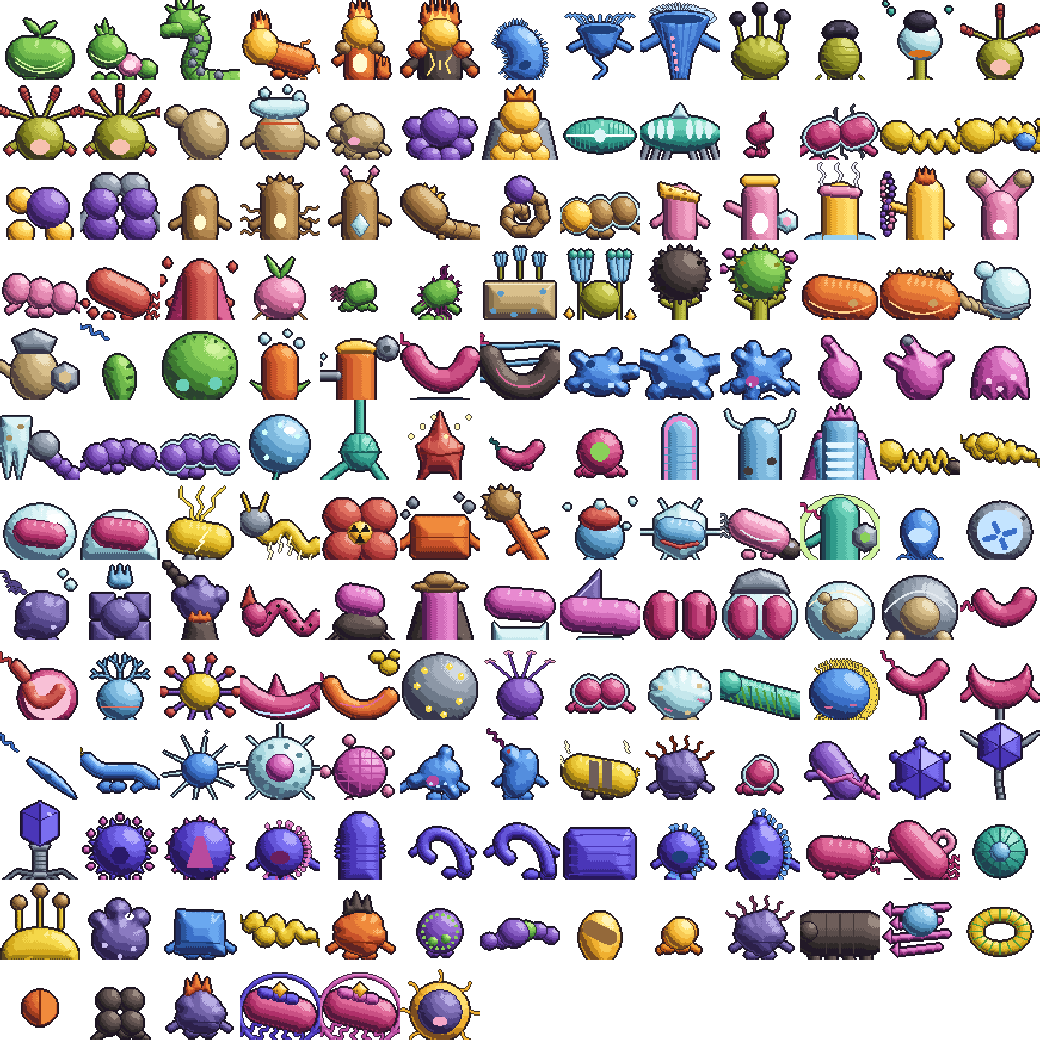
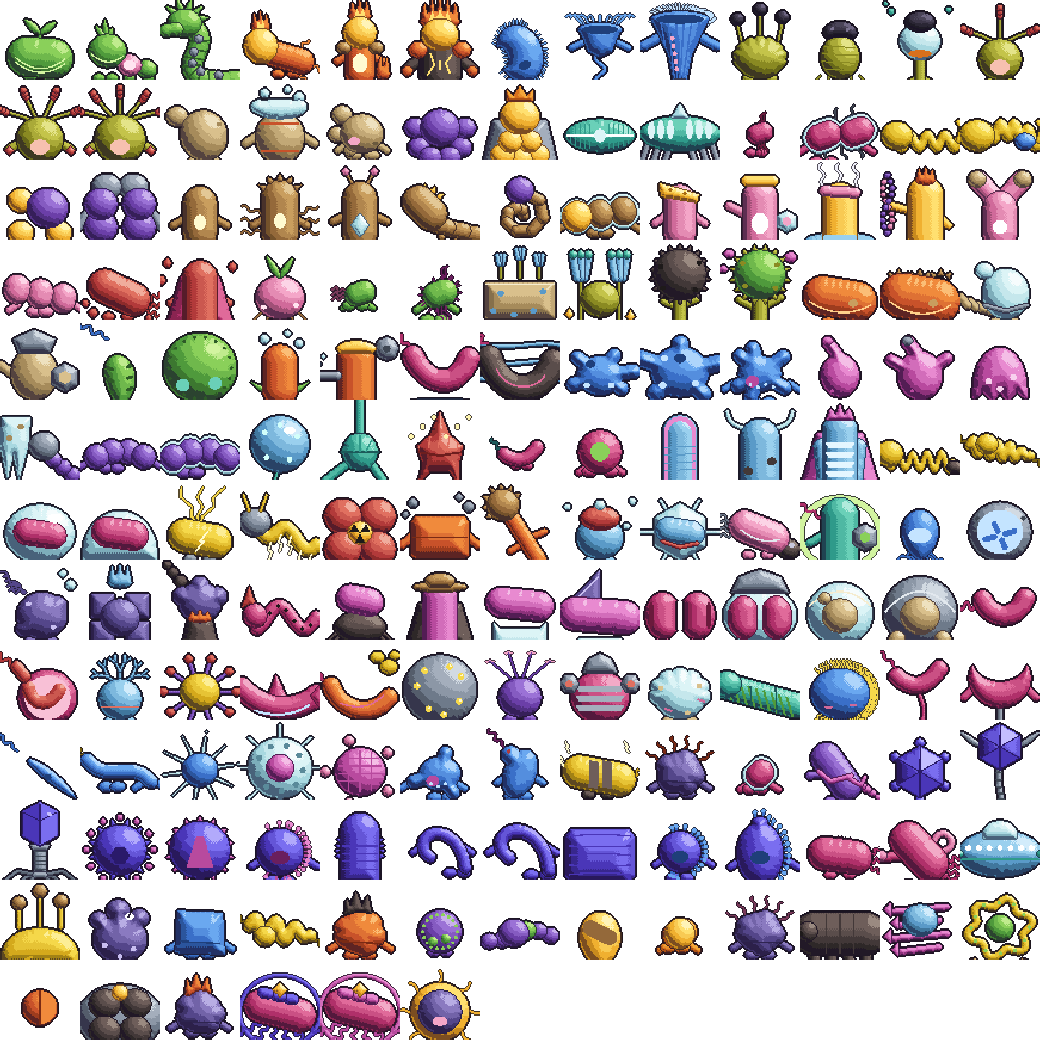
Séptimo tramo: Ruta 9, Tardigrad dormido, Central Metabólica con Viroid-Cad, Ciudad Pili y Gimnasio Clínico de la Dra. Luquin
Claude-Session: https://claude.ai/code/session_018v1fAZrQHSEnPWssP3zxe4

Changed region(s): [[0.9231, 0.7692, 1.0, 0.9231], [0.0615, 0.9231, 0.1538, 1.0], [0.5231, 0.6154, 0.6154, 0.7077]]

diff --git a/src/game/world/maps.ts b/src/game/world/maps.ts
@@ -573,7 +573,7 @@ function torre(n: number) {
   b.warp({ x: 0, y: 12, to: "torre-prion-3", tx: 1, ty: 12, dir: 3 });
   b.encounters([
     { sp: "rickettsia", min: 29, max: 31, w: 22 }, { sp: "genitalium", min: 29, max: 31, w: 18 }, { sp: "pneumoniae", min: 30, max: 32, w: 18 },
-    { sp: "cryptococ", min: 29, max: 31, w: 16 }, { sp: "bovis", min: 30, max: 32, w: 16 }, { sp: "prion-sc", min: 32, max: 32, w: 4 },
+    { sp: "cryptococ", min: 29, max: 31, w: 16 }, { sp: "bovis", min: 30, max: 32, w: 16 },
   ]);
   add(b.done({ music: "torre", fog: true }));
 }
@@ -584,7 +584,8 @@ function torre(n: number) {
   b.npc({ id: "torre-jubilado", x: 5, y: 3, sprite: "becario", dir: 0, script: "jubiladoTorre" });
   b.trigger({ x: 1, y: 9, w: 9, h: 2, script: "albaHernandez", once: "hernandez1" });
   b.warp({ x: 0, y: 12, to: "torre-prion-2", tx: 1, ty: 12, dir: 3 });
-  b.encounters([{ sp: "prion-sc", min: 32, max: 33, w: 30 }, { sp: "pneumoniae", min: 31, max: 33, w: 35 }, { sp: "bovis", min: 31, max: 33, w: 35 }]);
+  b.encounters([{ sp: "genitalium", min: 31, max: 33, w: 30 }, { sp: "pneumoniae", min: 31, max: 33, w: 35 }, { sp: "bovis", min: 31, max: 33, w: 35 }]);
+  b.npc({ id: "prion-legendario", x: 9, y: 4, sprite: "@microo:prion-sc", script: "estatico:prion-sc|45|prion", hideIf: "prion", solid: true });
   add(b.done({ music: "torre", fog: true }));
 }
 
@@ -870,6 +871,8 @@ add(casa("casa-agar", "Casa de Ciudad Agar", { to: "ciudad-agar", x: 22, y: 16 }
   b.npc({ id: "biotec-gym-cerrado", x: 23, y: 7, sprite: "becario", dir: 0, hideIf: "instituto-libre", talk: "El Dr. Conchillo no ha vuelto del Instituto. Sin él, el gimnasio está cerrado." });
   b.npc({ id: "biotec-1", x: 8, y: 13, sprite: "chica", move: "pasear", talk: "El Instituto tiene once plantas de laboratorios. ¡Y la Unidad de Genética las ha tomado todas!" });
   b.warp({ x: 0, y: 11, h: 2, to: "ruta-8", tx: 34, ty: 7, dir: 2, keep: "y" });
+  b.fill(28, 11, 2, 2, "p");
+  b.warp({ x: 29, y: 11, h: 2, to: "ruta-9", tx: 1, ty: 8, dir: 3, keep: "y" });
   add(b.done({ music: "ciudad" }));
 }
 add(incubadora("incubadora-biotec", "Parque Biotecnológico", { to: "parque-biotec", x: 5, y: 17 }));
@@ -939,6 +942,112 @@ function planta(id: string, name: string) {
     intro: "¡Mis proteínas se pliegan perfectamente! ¿Y las tuyas?", lose: "Se me ha desnaturalizado el modelo…", after: "El Dr. Conchillo predice la estructura de las proteínas a partir de su secuencia." } });
   b.npc({ id: "guia-gym6", x: 4, y: 14, sprite: "becario", dir: 0, talk: ["¡Hola, aspirante! Te doy un consejo.", "El Dr. Conchillo usa Intracelulares, Archaea y Extremófilos de genoma mínimo.", "¡Su Pyrolobus aguanta 113 °C! Busca bien sus debilidades."] });
   b.warp({ x: 5, y: 16, w: 3, to: "parque-biotec", tx: 23, ty: 8, dir: 0 });
+  add(b.done({ music: "gimnasio" }));
+}
+
+// ---------------------------------------------------------------- Ruta 9 (costa)
+{
+  const b = new MapBuilder("ruta-9", "Ruta 9", 44, 18);
+  b.trees(0, 0, 44, 2).trees(0, 2, 2, 6).trees(42, 2, 2, 6).trees(32, 2, 2, 6);
+  b.fill(0, 10, 44, 3, "s").fill(0, 13, 44, 5, "~").fill(0, 8, 44, 2, "p");
+  b.fill(32, 9, 1, 4, "r");
+  b.building(6, 3, { kind: "lab", w: 7, color: "gris", door: 3, to: "central-1", tx: 6, ty: 12 });
+  b.fill(9, 7, 1, 1, "p");
+  b.fill(16, 3, 10, 4, "g").fill(35, 3, 6, 4, "g").fill(2, 3, 3, 4, "f");
+  b.sign(4, 7, "Central Metabólica. Reactor de biogás y pilas de combustible microbianas. Peligro: alto voltaje.");
+  b.sign(28, 7, "Ruta 9. Al este: Ciudad Pili.");
+  b.item(40, 11, "medio-enriquecido", "item:r9-enriquecido", 2);
+  b.item(20, 11, "criobola-amarilla", "item:r9-amarilla", 3, true);
+  b.npc({ id: "r9-tardigrado", x: 32, y: 8, sprite: "@microo:tardigrad", script: "tardigrado", hideIf: "tardigrado", solid: true });
+  b.npc({ id: "r9-a", x: 14, y: 11, sprite: "chica", dir: 1, trainer: {
+    name: "Nerea", clase: "Bióloga Marina", team: [["cholerae", 40], ["diatomax", 41]], sight: 3, money: 190,
+    intro: "¡El mar está lleno de Vibrios! ¿Te enseño los míos?", lose: "Me ha arrastrado la corriente…", after: "Los Vibrios se pegan al plancton. ¡Viajan en copépodos!" } });
+  b.npc({ id: "r9-b", x: 24, y: 9, sprite: "chico", dir: 2, trainer: {
+    name: "Unai", clase: "Enfermero de UCI", team: [["baumannii", 41], ["aeruginosa", 41]], sight: 4, money: 200,
+    intro: "¡En la UCI vemos Microos que resisten a todo! ¿Y los tuyos?", lose: "Me toca guardia doble…", after: "Acinetobacter baumannii sobrevive semanas en las superficies secas del hospital." } });
+  b.npc({ id: "r9-c", x: 38, y: 11, sprite: "estudiante", dir: 2, trainer: {
+    name: "Gael", clase: "Surfista Científico", team: [["vulnificus", 42], ["salinarum", 41], ["shewanella", 41]], sight: 3, money: 200,
+    intro: "¡Ola perfecta y combate perfecto!", lose: "Me he comido la ola…", after: "Vibrio vulnificus vive en aguas cálidas. ¡Cuidado con las heridas abiertas en el mar!" } });
+  b.warp({ x: 0, y: 8, h: 2, to: "parque-biotec", tx: 28, ty: 11, dir: 2, keep: "y" });
+  b.warp({ x: 43, y: 8, h: 2, to: "ciudad-pili", tx: 1, ty: 9, dir: 3, keep: "y" });
+  b.encounters([
+    { sp: "cholerae", min: 40, max: 42, w: 16 }, { sp: "aeruginosa", min: 41, max: 43, w: 14 }, { sp: "baumannii", min: 41, max: 43, w: 12 },
+    { sp: "diatomax", min: 40, max: 42, w: 14 }, { sp: "shewanella", min: 40, max: 42, w: 14 }, { sp: "salinarum", min: 40, max: 42, w: 12 },
+    { sp: "vulnificus", min: 42, max: 43, w: 6 }, { sp: "pneumonia-k", min: 40, max: 42, w: 12 },
+  ]);
+  add(b.done({ music: "ruta" }));
+}
+
+// ---------------------------------------------------------------- Central Metabólica (opcional)
+{
+  const b = new MapBuilder("central-1", "Central Metabólica · Reactor", 16, 14, "N", "casino", false);
+  b.fill(0, 0, 16, 1, "w").fill(0, 1, 16, 1, "W");
+  b.fill(2, 4, 2, 2, "K").fill(6, 4, 2, 2, "K").fill(10, 4, 2, 2, "K").fill(2, 8, 5, 1, "D").fill(9, 8, 5, 1, "D").fill(13, 3, 1, 4, "D");
+  b.set(14, 2, "E").fill(5, 13, 3, 1, "a");
+  b.item(1, 11, "atp-concentrado", "item:cm-atp", 2);
+  b.npc({ id: "cm-a", x: 8, y: 6, sprite: "chica", dir: 0, trainer: {
+    name: "Èlia", clase: "Ingeniera Eléctrica", team: [["geobacter", 41], ["sulfurreduc", 42]], sight: 4, money: 200,
+    intro: "¡Estas pilas funcionan con bacterias! ¡Y mis Microos dan calambre!", lose: "Cortocircuito…", after: "Geobacter transfiere electrones a un electrodo. ¡Eso es una pila de combustible microbiana!" } });
+  b.npc({ id: "cm-tecnico", x: 12, y: 11, sprite: "becario", dir: 2, talk: ["Hace semanas que algo raro vive en la sala de control de arriba. No es una bacteria… ni un virus…", "Es solo una molécula de ARN circular. ¡Y se mueve!"] });
+  b.warp({ x: 5, y: 13, w: 3, to: "ruta-9", tx: 9, ty: 7, dir: 0 });
+  b.warp({ x: 14, y: 2, to: "central-2", tx: 13, ty: 3, dir: 0 });
+  b.encounters([
+    { sp: "geobacter", min: 40, max: 42, w: 20 }, { sp: "sulfurreduc", min: 41, max: 43, w: 18 }, { sp: "magnetospir", min: 40, max: 42, w: 18 },
+    { sp: "shewanella", min: 40, max: 42, w: 16 }, { sp: "methanosar", min: 41, max: 43, w: 18 }, { sp: "deinococ", min: 43, max: 43, w: 4 },
+  ]);
+  add(b.done({ music: "guarida", floorEncounters: "suelo_tecnico" }));
+}
+{
+  const b = new MapBuilder("central-2", "Central Metabólica · Sala de control", 16, 14, "N", "casino", false);
+  b.fill(0, 0, 16, 1, "w").fill(0, 1, 16, 1, "W");
+  b.set(13, 2, "E").fill(1, 2, 4, 1, "P").fill(3, 6, 10, 1, "D").fill(3, 7, 1, 4, "D").fill(12, 7, 1, 4, "D");
+  b.item(14, 12, "plasmido-r", "item:cm-plasmido-r");
+  b.npc({ id: "viroide-legendario", x: 7, y: 9, sprite: "@microo:viroid-cad", script: "estatico:viroid-cad|50|viroide", hideIf: "viroide", solid: true });
+  b.warp({ x: 13, y: 2, to: "central-1", tx: 14, ty: 3, dir: 0 });
+  b.encounters([{ sp: "sulfurreduc", min: 42, max: 44, w: 50 }, { sp: "deinococ", min: 43, max: 44, w: 10 }, { sp: "geobacter", min: 41, max: 43, w: 40 }]);
+  add(b.done({ music: "guarida", floorEncounters: "suelo_tecnico" }));
+}
+
+// ---------------------------------------------------------------- Ciudad Pili
+{
+  const b = new MapBuilder("ciudad-pili", "Ciudad Pili", 28, 22);
+  b.trees(0, 0, 28, 2).trees(0, 0, 2, 8).trees(0, 12, 2, 6).trees(26, 0, 2, 16);
+  b.fill(0, 16, 28, 2, "s").fill(0, 18, 28, 4, "~").fill(12, 16, 4, 4, "s");
+  b.fill(0, 9, 26, 2, "p").fill(13, 11, 2, 5, "p").fill(20, 6, 1, 3, "p").fill(6, 6, 1, 3, "p");
+  b.building(16, 2, { kind: "gimnasio", w: 8, color: "rojo", door: 4, to: "gimnasio-pili", tx: 6, ty: 15 });
+  b.building(3, 3, { kind: "incubadora", w: 5, door: 2, to: "incubadora-pili", tx: 5, ty: 6 });
+  b.building(3, 12, { kind: "tienda", w: 5, door: 2, to: "tienda-pili", tx: 4, ty: 6 });
+  b.building(19, 12, { kind: "casa", w: 5, color: "azul", door: 2, to: "casa-pili", tx: 3, ty: 5 });
+  b.fill(9, 3, 4, 3, "f");
+  b.sign(11, 8, "Ciudad Pili. «Aquí todo se pega: hasta la gente».");
+  b.sign(15, 8, "Gimnasio Clínico. Líder: Dra. Marina Luquin. Laboratorio de Bioseguridad Nivel 3.");
+  b.sign(11, 16, "Puerto de Ciudad Pili. Ferri a las Islas Esporuladas y la Isla Conjugada.");
+  b.npc({ id: "pili-marinero", x: 13, y: 19, sprite: "dependiente", dir: 1, script: "ferri" });
+  b.npc({ id: "pili-1", x: 9, y: 11, sprite: "chico", move: "pasear", talk: "La Dra. Luquin trabaja con micobacterias. ¡Hasta la tinción usa fucsina caliente!" });
+  b.npc({ id: "pili-2", x: 22, y: 10, sprite: "chica", dir: 2, talk: ["Los pili son como pelitos que usan las bacterias para pegarse a todo.", "¡Y algunos sirven para arrastrarse por las superficies, como un garfio!"] });
+  b.warp({ x: 0, y: 9, h: 2, to: "ruta-9", tx: 42, ty: 8, dir: 2, keep: "y" });
+  add(b.done({ music: "ciudad" }));
+}
+add(incubadora("incubadora-pili", "Ciudad Pili", { to: "ciudad-pili", x: 5, y: 5 }));
+add(tienda("tienda-pili", "Ciudad Pili", { to: "ciudad-pili", x: 5, y: 14 }, ["criobola-azul", "criobola-amarilla", "medio-tsb", "medio-enriquecido", "solucion-salina", "glicerol", "atp-concentrado"]));
+add(casa("casa-pili", "Casa de Ciudad Pili", { to: "ciudad-pili", x: 21, y: 14 }, [
+  { id: "pili-casa", x: 5, y: 3, sprite: "madre", dir: 0, talk: ["Mi marido trabaja en el Instituto Carlos III, en la Isla Conjugada. Reviven cepas congeladas del permafrost.", "¡Dice que algunas tienen miles de años!"] },
+]));
+{
+  const b = new MapBuilder("gimnasio-pili", "Gimnasio Clínico", 13, 17, "L", "laboratorio", false);
+  b.fill(0, 0, 13, 1, "w").fill(0, 1, 13, 1, "W");
+  b.fill(0, 5, 5, 1, "B").fill(7, 5, 6, 1, "B").fill(2, 9, 9, 1, "M").fill(0, 13, 4, 1, "i").fill(9, 13, 4, 1, "i");
+  b.set(0, 2, "K").set(12, 2, "K").set(0, 15, "n").set(12, 15, "n");
+  b.fill(5, 16, 3, 1, "a");
+  b.npc({ id: "lider-luquin", x: 6, y: 2, sprite: "luquin", dir: 0, script: "liderLuquin" });
+  b.npc({ id: "gym7-a", x: 11, y: 7, sprite: "chica", dir: 2, trainer: {
+    name: "Sílvia", clase: "Técnica de BSL-3", team: [["nocardia", 43], ["bovis", 43]], sight: 4, money: 210,
+    intro: "¡Presión negativa activada! Aquí no sale ni un aerosol… salvo mis ataques.", lose: "Me he quedado sin EPI…", after: "En un BSL-3 el aire siempre entra, nunca sale. ¡Así no escapan los patógenos!" } });
+  b.npc({ id: "gym7-b", x: 1, y: 11, sprite: "estudiante", dir: 3, trainer: {
+    name: "Àlex", clase: "Microbiólogo Clínico", team: [["pneumonia-k", 43], ["baumannii", 44], ["smegmatis", 43]], sight: 4, money: 210,
+    intro: "¡Antibiograma listo! Veamos a qué resiste tu equipo.", lose: "Halo de inhibición enorme… el mío.", after: "La tinción de Ziehl-Neelsen tiñe de rojo a las micobacterias. ¡Resisten al alcohol-ácido!" } });
+  b.npc({ id: "guia-gym7", x: 4, y: 14, sprite: "becario", dir: 0, talk: ["¡Hola, aspirante! Te doy un consejo.", "La Dra. Luquin usa Ácido-Alcohol resistentes, Gram- y Biofilms de hospital.", "¡Su Tuberculos es durísimo! Prepárate bien."] });
+  b.warp({ x: 5, y: 16, w: 3, to: "ciudad-pili", tx: 20, ty: 6, dir: 0 });
   add(b.done({ music: "gimnasio" }));
 }
 

diff --git a/src/game/scripts.ts b/src/game/scripts.ts
@@ -6,6 +6,7 @@ import { shopMenu } from "./scenes/menus";
 import { SlotMachine, fichas } from "./scenes/casino";
 import { Battle, Rng, createMicroo, trainerParty, fullHeal, getSpecies, SPECIES, type Microo } from "../engine";
 import { addItem, markCaught, markSeen } from "./state";
+import { MAPS } from "./world/maps";
 
 const COUNTER: Record<string, string> = { synechoc: "butyricum", butyricum: "paramec", paramec: "synechoc" };
 
@@ -24,6 +25,7 @@ async function giveMicroo(game: Game, sp: string, lv: number) {
   await game.say(`¡{nombre} ha recibido a ${getSpecies(sp).name}!`);
   if (game.state.party.at(-1) !== m) await game.say(`${getSpecies(sp).name} se ha enviado al Congelador de cepas.`);
 }
+const MAPS_EXIST = (id: string) => !!MAPS[id];
 const displayNameOf = (m: Microo) => m.nickname ?? getSpecies(m.species).name;
 
 // ---------------------------------------------------------------- combates
@@ -48,16 +50,17 @@ function battleFor(game: Game, foe: Microo[], wild: boolean, name?: string, foeI
     inventory: {} });
 }
 
-export async function wildBattle(game: Game, world: Overworld, sp: string, lv: number) {
+export async function wildBattle(game: Game, world: Overworld, sp: string, lv: number): Promise<BattleOutcome["outcome"]> {
   const m = createMicroo(sp, lv, { rng: rng(game) });
   markSeen(game.state, sp);
   if (world.map.safari) {
     await startBattle(game, world, { battle: battleFor(game, [m], true), wild: true, safari: true });
     if (Number(game.state.flags.safariBalls ?? 0) <= 0) await SCRIPTS.finReserva(game, world);
-    return;
+    return "run";
   }
   const out = await startBattle(game, world, { battle: battleFor(game, [m], true), wild: true });
   if (out.outcome === "lose") await whiteout(game, world);
+  return out.outcome;
 }
 
 export async function trainerBattle(game: Game, world: Overworld, n: NpcState) {
@@ -693,6 +696,15 @@ const SCRIPTS: Record<string, Script> = {
       await game.say("¡{nombre} ha recibido la CRIOBOLA MORADA!");
       s.flags["instituto-libre"] = true;
       world.refreshNpcs();
+      await game.say("Directora: Y toma esto también. En la Ruta 9 hay un tardígrado gigante en estado tun que bloquea el camino.");
+      addItem(s, "pulverizador");
+      await game.say("¡{nombre} ha recibido el PULVERIZADOR DE AGUA! Rehidrata a los tardígrados deshidratados.");
+      return;
+    }
+    if (!s.bag["pulverizador"]) {
+      await game.say("Directora: Por cierto, en la Ruta 9 hay un tardígrado gigante en estado tun bloqueando el camino a Ciudad Pili.");
+      addItem(s, "pulverizador");
+      await game.say("¡{nombre} ha recibido el PULVERIZADOR DE AGUA! Rehidrata a los tardígrados deshidratados.");
       return;
     }
     await game.say("Directora: Usa la Criobola Morada con cabeza. Solo hay una.");
@@ -714,5 +726,66 @@ const SCRIPTS: Record<string, Script> = {
     await game.say("Dr. Conchillo: Te has ganado la MEDALLA ALGORITMO.");
     await game.say("¡{nombre} ha recibido la MEDALLA ALGORITMO del Dr. Conchillo!");
     await game.say("Dr. Conchillo: La costa del este lleva a Ciudad Pili. Y por el camino, la Central Metabólica… dicen que allí vive algo muy raro.");
+  },
+
+  /** Encuentro fijo (legendarios, Tardigrad dormido…): «estatico:especie:nivel:bandera». */
+  async estatico(game, world, arg) {
+    const [sp, lv, flag] = String(arg).split("|");
+    const name = getSpecies(sp).name;
+    await game.say(`¡${name} te mira fijamente!`);
+    const out = await wildBattle(game, world, sp, Number(lv));
+    if (out === "capture" || out === "win") { game.state.flags[flag] = true; world.refreshNpcs(); }
+    else if (out === "foeFled") { game.state.flags[flag] = true; world.refreshNpcs(); await game.say(`${name} ha desaparecido…`); }
+  },
+
+  // ---------------------------------------------------------------- séptimo tramo
+  async tardigrado(game, world) {
+    const s = S(game);
+    await game.say("Un tardígrado gigante en estado tun bloquea el camino. Está completamente deshidratado y no se mueve.");
+    if (!s.bag["pulverizador"]) { await game.say("Haría falta agua para despertarlo…"); return; }
+    await game.say("¿Usar el Pulverizador de Agua?", { keep: true });
+    const c = await game.choose(["SÍ", "NO"], { x: 200, y: 96, cancel: 1 });
+    game.popKept();
+    if (c !== 0) return;
+    await game.say("¡{nombre} rocía al tardígrado! Se hincha, estira sus ocho patas… ¡y se despierta de muy mal humor!");
+    await SCRIPTS.estatico(game, world, "tardigrad|40|tardigrado");
+    if (!s.flags.tardigrado) { s.flags.tardigrado = true; world.refreshNpcs(); await game.say("El tardígrado se aleja pesadamente hacia el mar."); }
+  },
+
+  async liderLuquin(game, world) {
+    const s = S(game);
+    if (s.badges.includes("ziehl")) {
+      await game.say("Dra. Luquin: Las micobacterias crecen despacio, pero no se rinden nunca. Como un buen investigador.");
+      return;
+    }
+    await game.say("Dra. Marina Luquin: Bienvenid{o} a mi laboratorio BSL-3. Aquí entran Microos que resisten al alcohol, al ácido… y a casi todo.");
+    await game.say("Dra. Luquin: Tinción de Ziehl-Neelsen, fucsina caliente y mucha paciencia. ¿Estás preparad{o}?");
+    const out = await startBattle(game, world, { battle: battleFor(game, trainerParty("gym7", s.difficulty, rng(game)), false, "Dra. Luquin", s.difficulty === "normal" ? { "medio-enriquecido": 2 } : {}), wild: false,
+      trainer: { name: "Marina Luquin", clase: "Líder", portrait: "luquin", lose: "¡Has resistido como una buena micobacteria!", money: 380 } });
+    if (out.outcome === "lose") { await whiteout(game, world); return; }
+    s.badges.push("ziehl");
+    s.flags.medalla7 = true;
+    await game.say("Dra. Luquin: Te has ganado la MEDALLA ZIEHL-NEELSEN.");
+    await game.say("¡{nombre} ha recibido la MEDALLA ZIEHL-NEELSEN de la Dra. Luquin!");
+    addItem(s, "billete-ferri");
+    await game.say("Dra. Luquin: Y toma este billete. El ferri del puerto te llevará a las islas. Dicen que Jaime se esconde en la Isla Conjugada…");
+    await game.say("¡{nombre} ha recibido el BILLETE DE FERRI!");
+  },
+
+  async ferri(game, world) {
+    const s = S(game);
+    if (!s.bag["billete-ferri"]) { await game.say("Marinero: El ferri a las islas solo admite pasajeros con billete. ¡La Dra. Luquin del gimnasio los reparte!"); return; }
+    const dest: [string, string, number, number][] = [["Islas Esporuladas", "islas-esporuladas", 10, 22], ["Isla Conjugada", "isla-conjugada", 14, 22]];
+    const opts = dest.filter(([, id]) => MAPS_EXIST(id));
+    if (!opts.length) { await game.say("Marinero: El ferri está en revisión. ¡Vuelve pronto!"); return; }
+    await game.say("Marinero: ¡Todos a bordo! ¿A dónde vamos?", { keep: true });
+    const c = await game.choose([...opts.map(([n]) => n), "QUEDARSE"], { x: 140, y: 60, cancel: opts.length });
+    game.popKept();
+    if (c < 0 || c >= opts.length) return;
+    await game.fade(true, 20);
+    await game.wait(30);
+    world.load(opts[c][1], opts[c][2], opts[c][3], 1);
+    await game.fade(false, 20);
+    await game.say(`¡Habéis llegado a ${opts[c][0]}!`);
   },
 };

diff --git a/src/game/scenes/overworld.ts b/src/game/scenes/overworld.ts
@@ -129,7 +129,7 @@ export class Overworld implements Scene {
     const tr = this.map.triggers.find((t) => this.px >= t.x && this.px < t.x + (t.w ?? 1) && this.py >= t.y && this.py < t.y + (t.h ?? 1));
     if (tr && (!tr.once || !s.flags[tr.once])) { await this.lock(() => runScript(this.game, this, tr.script)); return; }
     if (await this.checkTrainers()) return;
-    const cave = (this.map.env === "cueva" && tile === "suelo_cueva") || (this.map.env === "torre" && tile === "suelo_torre");
+    const cave = (this.map.env === "cueva" && tile === "suelo_cueva") || (this.map.env === "torre" && tile === "suelo_torre") || this.map.floorEncounters === tile;
     if ((isGrass(tile) || cave) && this.map.grass.length) {
       this.stepsInGrass++;
       const rng = (this.game.frame * 9301 + this.px * 49297 + this.py * 233) % 1000;
@@ -263,6 +263,7 @@ export class Overworld implements Scene {
       if (n.def.sprite === "") continue;
       const sx = n.x * 16 + n.ox - cx, sy = n.y * 16 + n.oy - cy;
       if (n.def.sprite === "@criobola") { ents.push({ y: sy, d: () => drawBall(g, sx + 4, sy + 2) }); continue; }
+      if (n.def.sprite.startsWith("@microo:")) { const spc = n.def.sprite.slice(8); const bob = Math.floor(this.anim / 20) % 2; ents.push({ y: sy, d: () => g.icon(spc, bob, sx - 8, sy - 16 - bob) }); continue; }
       if (n.def.sprite.startsWith("@tile:")) { const t = n.def.sprite.slice(6); ents.push({ y: sy - 32, d: () => g.tile(t, sx, sy) }); continue; }
       const fr = n.moving > 0 ? (Math.floor(n.moving / 8) % 2 ? 1 : 2) : 0;
       ents.push({ y: sy, d: () => { g.character(n.def.sprite, n.dir, fr, sx - 8, sy - 18); if (n.emote > 0) drawEmote(g, sx + 4, sy - 26); } });

diff --git a/src/game/world/builder.ts b/src/game/world/builder.ts
@@ -24,6 +24,8 @@ export interface MapDef {
   fog?: boolean;
   /** Reserva Microbiana: pasos y Criobolas Verdes limitados. */
   safari?: boolean;
+  /** Tile de suelo (no hierba) en el que hay encuentros salvajes. */
+  floorEncounters?: string;
 }
 
 /** Leyenda de caracteres → tile. T y V son árboles de 2×2 alineados a coordenadas pares. */

diff --git a/tools/art/designs8.py b/tools/art/designs8.py
@@ -1,0 +1,70 @@
+"""Diseños a mano del séptimo tramo: Ruta 9, Central Metabólica y Gimnasio 7."""
+import math
+import numpy as np
+from pix import Sprite, ellipse, capsule, polygon, regular, bezier, stroke, wave, shift, dilate, RAMPS
+from designs1 import leaf, flame, feet, arms, put_face, stripes, R
+from designs2 import done, spikes, spots
+
+def coco(S, x, y, r): return ellipse(S, x, y, r, r * 0.95)
+
+def baumannii(S, face=True):
+    """A. baumannii: cocobacilo acorazado de UCI, armadura de placas y bombas de eflujo en los hombros."""
+    sp = Sprite(S)
+    body = ellipse(S, 0.5, 0.62, 0.3, 0.27)
+    sp.part(body, "Gram-")
+    for k in range(3):
+        sp.put(polygon(S, [(0.24, 0.5 + k * 0.1), (0.76, 0.5 + k * 0.1), (0.72, 0.56 + k * 0.1), (0.28, 0.56 + k * 0.1)]) & body, R("Biofilm", 2))
+    for x in (0.18, 0.82):
+        sp.part(regular(S, x, 0.48, 0.1, 6), "Biofilm")
+        sp.put(coco(S, x, 0.48, 0.04), R("Antibiótico", 2))
+    sp.part(polygon(S, [(0.32, 0.36), (0.68, 0.36), (0.62, 0.22), (0.5, 0.16), (0.38, 0.22)]), "Biofilm")
+    feet(sp, (0.36, 0.64), 0.9, 0.08, 0.045, "Biofilm")
+    if face: put_face(sp, 0.5, 0.44, 0.14, 0.055, mood="fierce", iris=(240, 60, 60), mouth="fangs")
+    return done(sp)
+
+def diatomax(S, face=True):
+    """Diatomax: diatomea gigante acorazada, nave de sílice con ventanas y cañones de rafe."""
+    sp = Sprite(S)
+    hull = ellipse(S, 0.5, 0.58, 0.44, 0.24)
+    sp.part(hull, "Ácido-Alc.")
+    for k in range(-3, 4):
+        sp.put(coco(S, 0.5 + k * 0.11, 0.52, 0.03) & hull, R("cristal", 3))
+    sp.put(stroke(S, [(0.1, 0.64), (0.9, 0.64)], 1.6 / S) & hull, R("Alga", 1))
+    dome = ellipse(S, 0.5, 0.38, 0.18, 0.14) & ~polygon(S, [(0, 0.42), (1, 0.42), (1, 1), (0, 1)])
+    sp.part(dome, "cristal")
+    for x in (0.08, 0.92):
+        sp.part(capsule(S, (x, 0.58), (x + (0.06 if x > 0.5 else -0.06), 0.52), 0.035), "Alga")
+    if face: put_face(sp, 0.5, 0.58, 0.18, 0.06, mood="fierce", iris=(60, 150, 120), mouth="grin")
+    return done(sp)
+
+def viroid_cad(S, face=True):
+    """Viroide del Cadang-Cadang: anillo de ARN desnudo que se retuerce como un lazo eléctrico, con hojas marchitas."""
+    sp = Sprite(S)
+    for a in (0.6, 2.4):
+        sp.part(leaf(S, (0.5 + math.cos(a) * 0.3, 0.84), (0.5 + math.cos(a) * 0.5, 0.96), 0.05), "Esporulado")
+    ring = np.zeros((S, S), bool)
+    pts = []
+    for t in np.linspace(0, 2 * math.pi, 120):
+        rr = 0.3 + 0.05 * math.sin(6 * t)
+        pts.append((0.5 + math.cos(t) * rr, 0.52 + math.sin(t) * rr * 0.9))
+    sp.part(stroke(S, pts, 0.07), "Espiroqueta")
+    for k in range(0, 120, 10):
+        x, y = pts[k]
+        sp.put(coco(S, x, y, 0.02), R("Fotótrofo", 2))
+    core = coco(S, 0.5, 0.52, 0.14)
+    sp.part(core, "Fotótrofo")
+    if face: put_face(sp, 0.5, 0.5, 0.11, 0.05, mood="fierce", iris=(250, 220, 60), mouth="grin")
+    return done(sp)
+
+def deinococ(S, face=True):
+    """Deinococcus: tétrada roja indestructible cubierta de biofilm, con el símbolo de radiación en la frente."""
+    sp = Sprite(S)
+    mat = ellipse(S, 0.5, 0.62, 0.44, 0.34)
+    sp.part(mat, "Biofilm")
+    for x, y in ((0.34, 0.48), (0.66, 0.48), (0.34, 0.76), (0.66, 0.76)):
+        sp.part(coco(S, x, y, 0.16), "Extremófilo")
+    sp.part(coco(S, 0.5, 0.36, 0.08), "brillo")
+    if face: put_face(sp, 0.5, 0.62, 0.32, 0.06, mood="fierce", iris=(250, 120, 60), mouth="fangs", mw=0.05)
+    return done(sp)
+
+DESIGNS8 = {"baumannii": baumannii, "diatomax": diatomax, "viroid-cad": viroid_cad, "deinococ": deinococ}

diff --git a/tools/build_items.py b/tools/build_items.py
@@ -28,6 +28,8 @@ items = [
  {"id":"microscopio-optico","name":"Microscopio Óptico","kind":"key","price":0,"desc":"Registra los Microos vistos y aislados (Microdex)."},
  {"id":"mascara-de-gases","name":"Máscara de Gases","kind":"key","price":0,"desc":"Permite entrar en la Cueva Anaeróbica."},
  {"id":"disco-duro","name":"Disco Duro Externo","kind":"key","price":0,"desc":"Un disco duro atado con celo. Pone «BACKUP_FINAL_v3_ESTE_SÍ». Alguien lo tiró en el Monte Micelio."},
+ {"id":"pulverizador","name":"Pulverizador de Agua","kind":"key","price":0,"desc":"Agua destilada a presión. Rehidrata a los tardígrados en estado tun."},
+ {"id":"billete-ferri","name":"Billete de Ferri","kind":"key","price":0,"desc":"Billete del ferri de Ciudad Pili a las Islas Esporuladas y la Isla Conjugada."},
  {"id":"western-blot","name":"Western Blot","kind":"key","price":0,"desc":"Identifica los priones de la Torre Prión."},
 ]
 (ROOT/"data"/"items.json").write_text(json.dumps(items, ensure_ascii=False, indent=1), encoding="utf-8")

diff --git a/tools/art/microos.py b/tools/art/microos.py
@@ -184,3 +184,5 @@ from designs6 import DESIGNS6
 DESIGNS.update(DESIGNS6)
 from designs7 import DESIGNS7
 DESIGNS.update(DESIGNS7)
+from designs8 import DESIGNS8
+DESIGNS.update(DESIGNS8)

diff --git a/PROGRESO.md b/PROGRESO.md
@@ -85,5 +85,10 @@ Roadmap: 7 fases (0–6). Cada fase termina en una puerta.
 - Gimnasio Bioinfo del Dr. Òscar Conchillo (Medalla Algoritmo), abierto tras el rescate.
 - 14 Microos nuevos (`tools/art/designs7.py`), incluidas las primeras líneas de virus.
 
+## Séptimo tramo (hecho)
+- Encuentros fijos con el Microo visible en el mapa (`estatico:especie|nivel|bandera`): Prion-Sc en la cima de la Torre Prión (ya no aparece salvaje), Viroid-Cad en la Central Metabólica y el Tardigrad gigante en estado tun que bloquea la Ruta 9 (se despierta con el Pulverizador de Agua que da la directora del Instituto).
+- Parque Biotecnológico → Ruta 9 (costa) → Central Metabólica opcional (dos plantas, encuentros en el suelo técnico) → Ciudad Pili (puerto con ferri) → Gimnasio Clínico de la Dra. Marina Luquin (Medalla Ziehl-Neelsen, que da el Billete de Ferri).
+- 4 Microos nuevos (`tools/art/designs8.py`).
+
 ## Siguiente tarea
-Fase 4: Central Metabólica y Ciudad Pili en adelante (gimnasios 5–8, Liga y mazmorras), mejorar la calidad de los sprites (Microos diseñados por especie, retratos limpios, pasos), música y efectos.
+Fase 4: Islas Esporuladas, Isla Conjugada y Liga (gimnasios 5–8, Liga y mazmorras), mejorar la calidad de los sprites (Microos diseñados por especie, retratos limpios, pasos), música y efectos.
